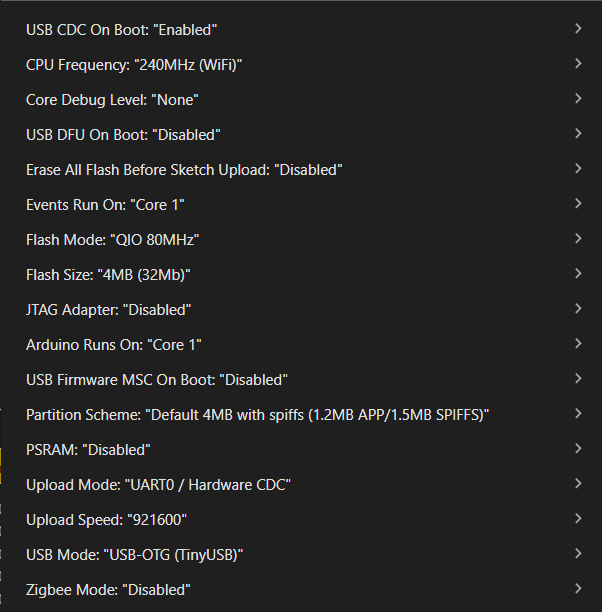
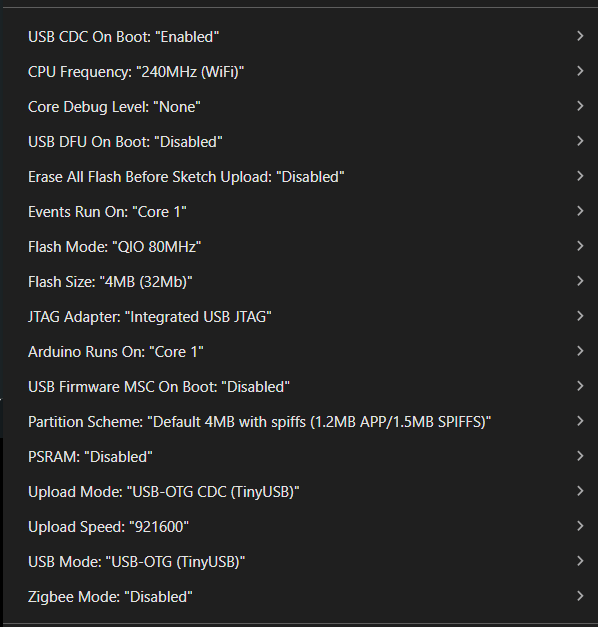
update code

diff --git a/Controller Code/Controller_V1.2/Gamepad_config.h b/Controller Code/Controller_V1.2/Gamepad_config.h
@@ -3,36 +3,37 @@
 #define GAMEPAD_CONFIG_H
 
 // Button Pins ABXY & LR
-#define PIN_L1     18
+#define PIN_L1     9
 #define PIN_L2     8
 
-#define PIN_A      13
-#define PIN_B      12
-#define PIN_X      11
-#define PIN_Y      10
+#define PIN_A      39
+#define PIN_B      14
+#define PIN_X      16
+#define PIN_Y      17
 
 #define PIN_R2     3
-#define PIN_R1     9
+#define PIN_R1     18
 
 // Joystick Pins (Analog Inputs)
-#define PIN_Ly     17  // Left Y-axis
-#define PIN_Ry     1   // Right Y-axis  
-#define PIN_Lx     16  // Left X-axis
-#define PIN_Rx     2   // Right X-axis
+#define PIN_Ly     11  // Left Y-axis
+#define PIN_Ry     2   // Right Y-axis  
+#define PIN_Lx     12  // Left X-axis
+#define PIN_Rx     4   // Right X-axis
 
 // Joystick Click Buttons
-#define PIN_L3     14  // Left stick click
-#define PIN_R3     4   // Right stick click
+#define PIN_L3     10   // Left stick click
+#define PIN_R3     40   // Right stick click
 
 // Additional Analog Inputs
-#define PIN_Lx1    39  // Secondary Left X
-#define PIN_Rx1    40  // Secondary Right X
+#define PIN_Lx1    13  // Secondary Left X
+#define PIN_Rx1    1  // Secondary Right X
 
 // D-Pad & Control Buttons
-#define PIN_up     15
-#define PIN_down   7
-#define PIN_left   6
-#define PIN_right  5
+#define PIN_up     6
+#define PIN_down   15
+#define PIN_left   5
+#define PIN_right  7
+// control buttons
 #define PIN_HOME   21
 #define PIN_START  47
 #define PIN_SELECT 48
